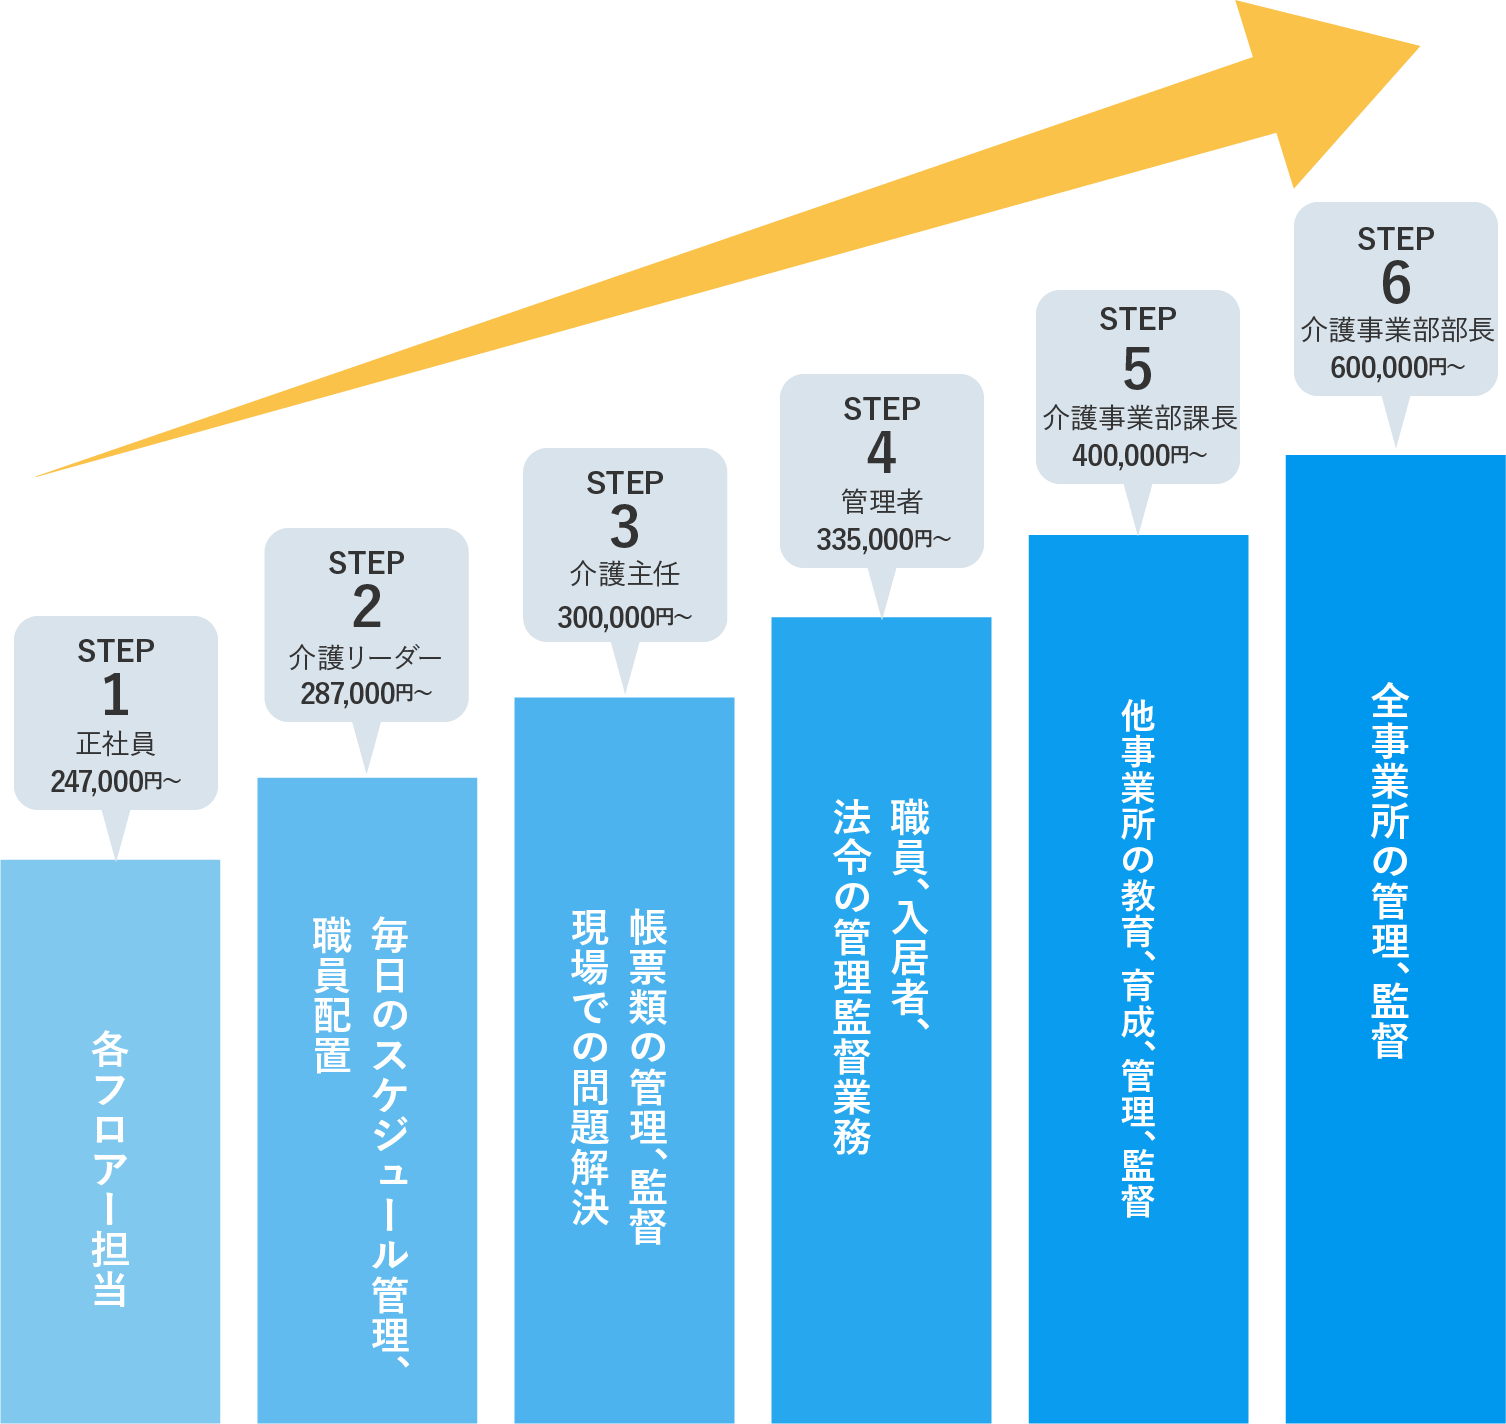
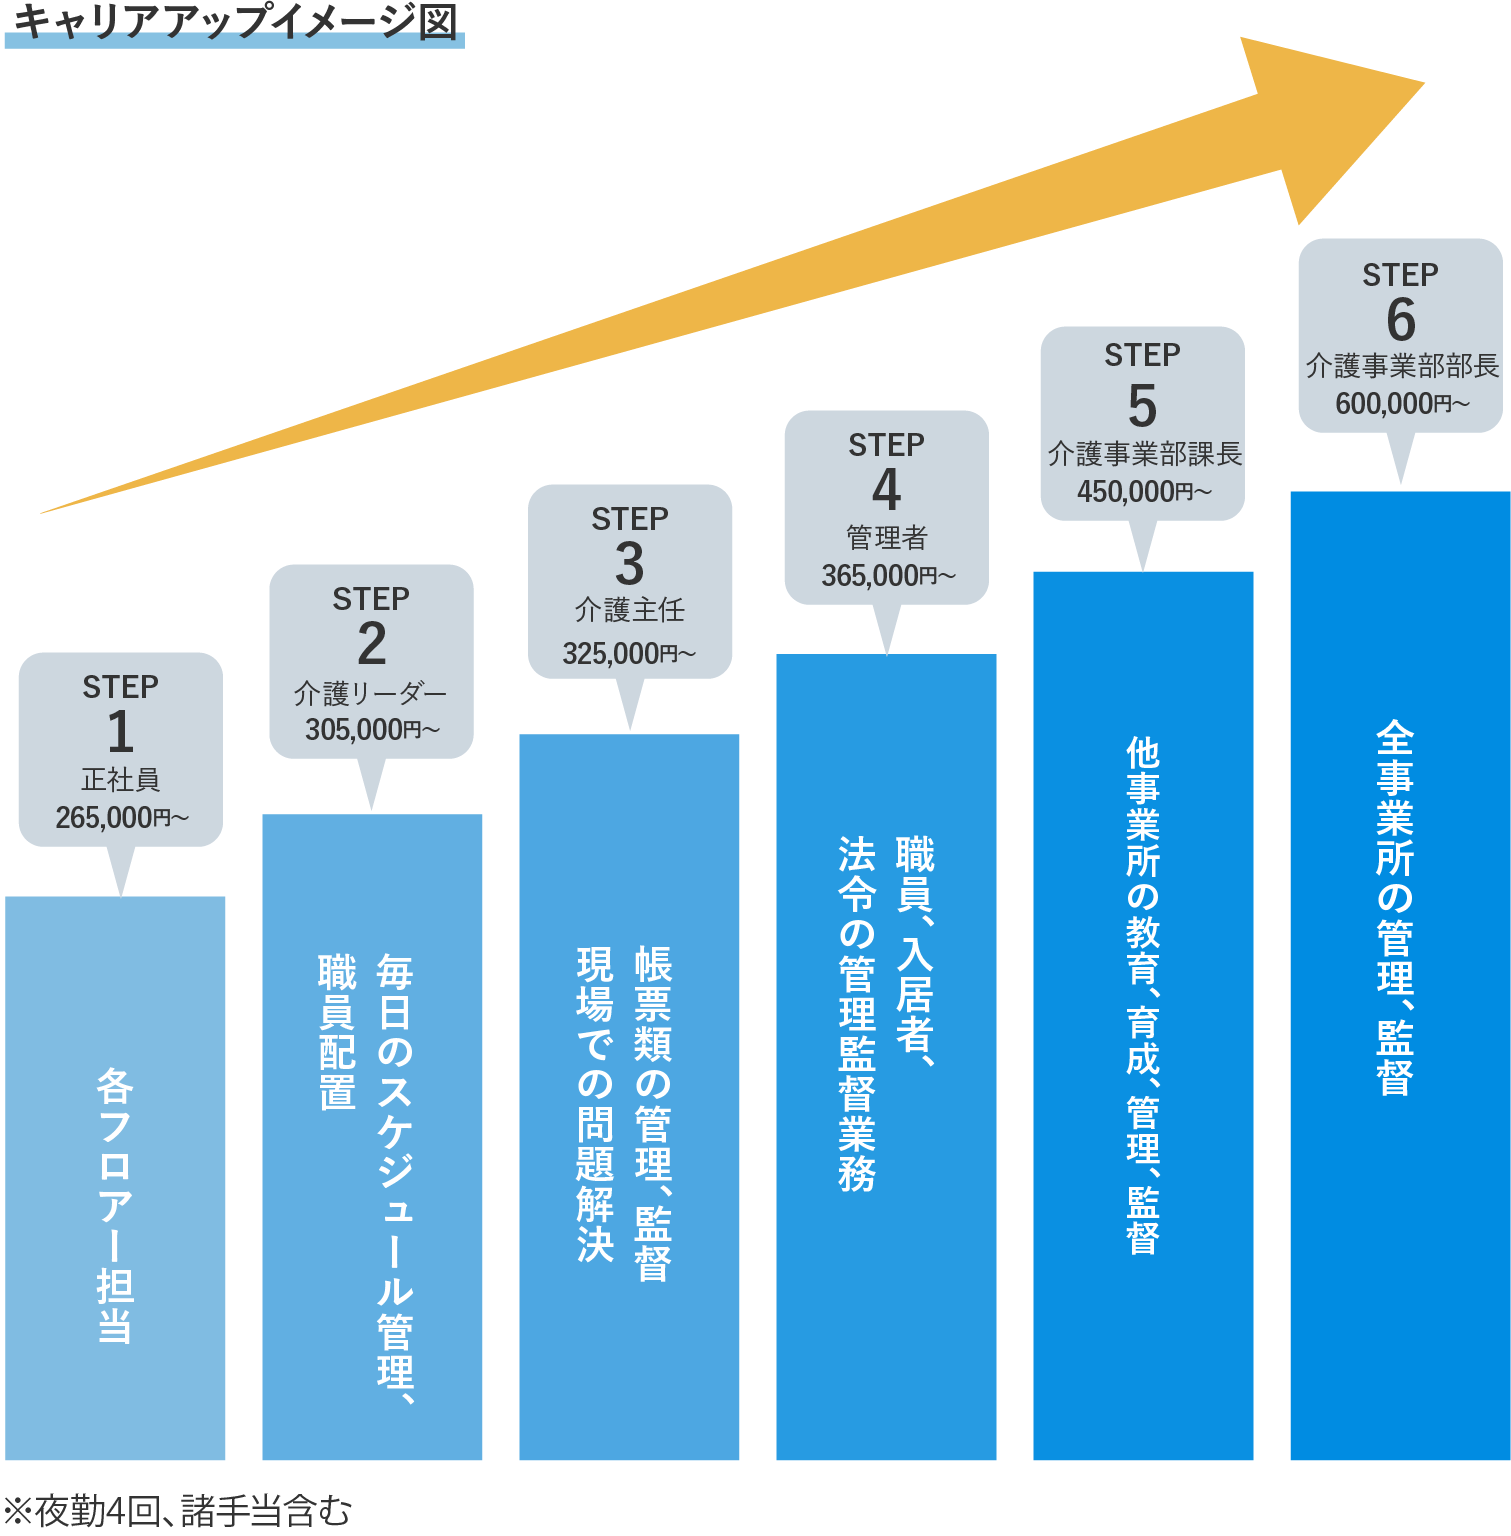
最終調整

diff --git a/src/index.html b/src/index.html
@@ -1921,15 +1921,20 @@
           </p>
         </div>
         <div class="p-career__item-image">
-          <h3 class="p-career__item-image__title">
+          <!-- <h3 class="p-career__item-image__title">
             <span> キャリアアップイメージ図 </span>
-          </h3>
+          </h3> -->
           <img
             src="/assets/img/career/career_01.png"
             alt="キャリアアップイメージ図"
+            class="pc-only"
+          />
+          <img
+            src="/assets/img/career/career_02.png"
+            alt="キャリアアップイメージ図"
+            class="sp-only"
           />
         </div>
-        <span class="listMark-grid">※夜勤4回、諸手当含む</span>
       </div>
       <div class="p-career__wrap bottom delay">
         <div class="p-career__box" id="career02">
@@ -2171,7 +2176,7 @@
             </p>
             <p class="p-faq-list__item-answer">
               <span>A</span>
-              可能です。皆さんが不安を抱かず働き、休るようにしっかりと話し合いの上、決定します。また、時短勤務や、午後・午前だけの勤務もできるようにできる限り配慮しています。
+              可能です。皆さんが不安を抱かず働き、休めるようにしっかりと話し合いの上、決定します。また、時短勤務や、午後・午前だけの勤務もできるようにできる限り配慮しています。
             </p>
           </li>
           <li class="p-faq-list__item">
@@ -2211,7 +2216,7 @@
             </p>
             <p class="p-faq-list__item-answer">
               <span>A</span>
-              取りやすいと思います。皆が気持ちよく休んでいただくために、出来るだけ早く責任者にご希望をお知らせください。
+              取りやすいと思います。皆さんが気持ちよく休んでいただくために、出来るだけ早く責任者にご希望をお知らせください。
             </p>
           </li>
           <li class="p-faq-list__item">
@@ -2231,7 +2236,7 @@
             </p>
             <p class="p-faq-list__item-answer">
               <span>A</span>
-              ネイル、髪の色に関しては派手過ぎなければ大丈夫です。詳しくは面接時にご相談ください。
+              ネイル、髪の色に関しては派手過ぎなければ大丈夫です。詳しくは詳しくは<a class="c-textLink" href="/contact">こちら</a>からお問い合わせください。
             </p>
           </li>
           <li class="p-faq-list__item">
@@ -2261,7 +2266,7 @@
             </p>
             <p class="p-faq-list__item-answer">
               <span>A</span>
-              入社時に働く施設は選べます。ご希望される事業所にご応募下さい。
+              入社時に働く施設は選べます。ご希望される事業所は、<a class="c-textLink" href="/contact">こちら</a>からご応募ください。
             </p>
           </li>
         </ul>

diff --git a/assets/css/style.css b/assets/css/style.css
@@ -681,6 +681,11 @@ p {
     margin-left: 3.75rem;
   }
 }
+.c-textLink {
+  color: #0098ee;
+  font-weight: bold;
+}
+
 .c-page-top {
   padding-top: 15px;
   padding-top: 0.9375rem;

diff --git a/src/sass/component/_c-btn.scss b/src/sass/component/_c-btn.scss
@@ -47,3 +47,9 @@
     }
   }
 }
+
+
+.c-textLink {
+  color: $color-text-blue;
+  font-weight: bold;
+}

diff --git a/php/index.php b/php/index.php
@@ -1654,12 +1654,18 @@
           </p>
         </div>
         <div class="p-career__item-image">
-          <h3 class="p-career__item-image__title">
+          <!-- <h3 class="p-career__item-image__title">
             <span> キャリアアップイメージ図 </span>
-          </h3>
-          <img src="<?php echo get_template_directory_uri(); ?>/assets/img/career/career_01.png" alt="キャリアアップイメージ図" />
+          </h3> -->
+          <img
+            class="pc-only"
+            src="<?php echo get_template_directory_uri(); ?>/assets/img/career/career_01.png"
+            alt="キャリアアップイメージ図" />
+          <img
+            class="sp-only"
+            src="<?php echo get_template_directory_uri(); ?>/assets/img/career/career_02.png"
+            alt="キャリアアップイメージ図" />
         </div>
-        <span class="listMark-grid">※夜勤4回、諸手当含む</span>
       </div>
       <div class="p-career__wrap bottom delay">
         <div class="p-career__box" id="career02">
@@ -1868,7 +1874,7 @@
             </p>
             <p class="p-faq-list__item-answer">
               <span>A</span>
-              可能です。皆さんが不安を抱かず働き、休るようにしっかりと話し合いの上、決定します。また、時短勤務や、午後・午前だけの勤務もできるようにできる限り配慮しています。
+              可能です。皆さんが不安を抱かず働き、休めるようにしっかりと話し合いの上、決定します。また、時短勤務や、午後・午前だけの勤務もできるようにできる限り配慮しています。
             </p>
           </li>
           <li class="p-faq-list__item">
@@ -1908,7 +1914,7 @@
             </p>
             <p class="p-faq-list__item-answer">
               <span>A</span>
-              取りやすいと思います。皆が気持ちよく休んでいただくために、出来るだけ早く責任者にご希望をお知らせください。
+              取りやすいと思います。皆さんが気持ちよく休んでいただくために、出来るだけ早く責任者にご希望をお知らせください。
             </p>
           </li>
           <li class="p-faq-list__item">
@@ -1928,7 +1934,7 @@
             </p>
             <p class="p-faq-list__item-answer">
               <span>A</span>
-              ネイル、髪の色に関しては派手過ぎなければ大丈夫です。詳しくは面接時にご相談ください。
+              ネイル、髪の色に関しては派手過ぎなければ大丈夫です。詳しくは<a class="c-textLink" href="/contact">こちら</a>からお問い合わせください。
             </p>
           </li>
           <li class="p-faq-list__item">
@@ -1958,7 +1964,7 @@
             </p>
             <p class="p-faq-list__item-answer">
               <span>A</span>
-              入社時に働く施設は選べます。ご希望される事業所にご応募下さい。
+              入社時に働く施設は選べます。ご希望される事業所は、<a class="c-textLink" href="/contact">こちら</a>からご応募ください。
             </p>
           </li>
         </ul>
